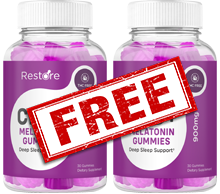
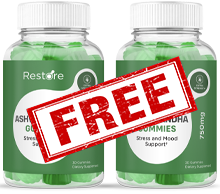
upsell 2

diff --git a/gummies/upsell-2.php b/gummies/upsell-2.php
@@ -51,9 +51,9 @@ endif;
 
 <div class="up-top-hdng">
     <div class="container">
-        <p class="up-hdng-txt1" style="font-size:30px;"><img src="images/left-arw.png" class="left-arw tadda"> <span>Want Healthy & Restful Sleep, Every Night?
+        <p class="up-hdng-txt1" style="font-size:30px;"><img src="images/left-arw.png" class="left-arw tadda"> <span>Want To Reduce Stress and Wake Up Refreshed With An Ancient Indian Herb?
  </span> <img src="images/rgt-arw.png" class="rgt-arw taddaR"></p>
-        <p class="up-hdng-txt2">Add Our CBD + Melatonin Nighttime Gummies Designed to <br>Help You Fall Asleep, Stay Asleep & Wake Up Refreshed! <span>Get 2 Free! </span></p>
+        <p class="up-hdng-txt2">Add Our Ashwagandha Gummies Now, Designed to <br>Help You Relax Easier, Sleep Better and Feel Better In Just Seconds A Day! <span>Get 2 Free! </span></p>
     </div>
 </div>
 
@@ -67,9 +67,9 @@ endif;
                 
                 <ul class="up-s1-list">
                 	<li>Helps Relax Mind & Body Quickly</li>
-                    <li>Restores Healthy Sleep Cycles</li> 
-                    <li>Promotes Deep REM Sleep</li> 
-                    <li>Boosts Morning Energy & Alertness</li>  
+                    <li>Promotes Healthy Sleep Cycles</li> 
+                    <li>Restores The Body</li> 
+                    <li>Wake Up Refreshed</li>  
                 </ul>
                 <div class="clearall"></div>
                 <div class="save-strip"><img src="images/up-tymtk.png" class="up-tymtk"> <p> Your FREE Bottles Reserved For <img src="images/wtch.png" class="wtch"> <span id="stopwatch">00:00</span> Minutes</p></div>

diff --git a/gummies/kon/process.php b/gummies/kon/process.php
@@ -14,7 +14,7 @@ else:
     $pagetype = (isset($_GET['page']))?$_GET['page']:$config[$_POST['page']]['type'];
 
     if($pagetype == "checkout"):
-        $_SESSION['couponCode'] = "SGTEST99";// for testing and remove when done
+        //$_SESSION['couponCode'] = "SGTEST99";// for testing and remove when done
         $kon->prepareData($_SESSION);
         $result = json_decode($kon->importOrder());
 

diff --git a/gummies/m/kon/process.php b/gummies/m/kon/process.php
@@ -15,7 +15,7 @@ else:
     $pagetype = (isset($_GET['pid']))?'package':$pagetype;
 
     if($pagetype == "checkout"):
-        $_SESSION['couponCode'] = "SGTEST99";// for testing and remove when done
+        //$_SESSION['couponCode'] = "SGTEST99";// for testing and remove when done
         $kon->prepareData($_SESSION);
         $result = json_decode($kon->importOrder());
 
